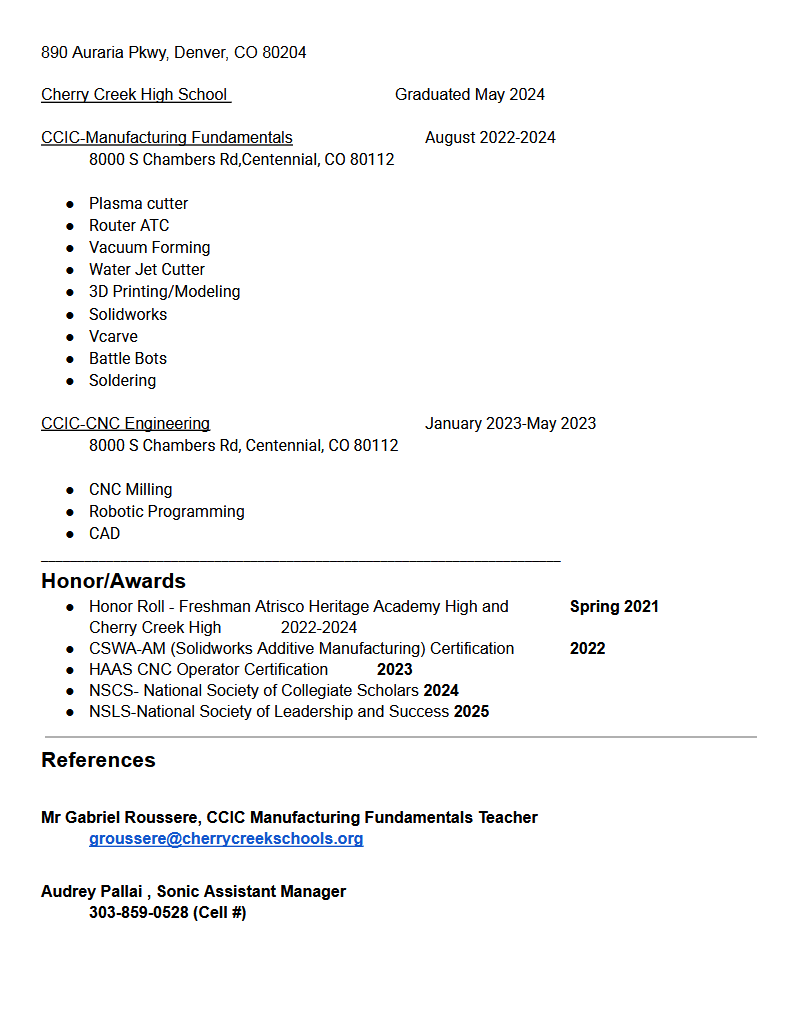
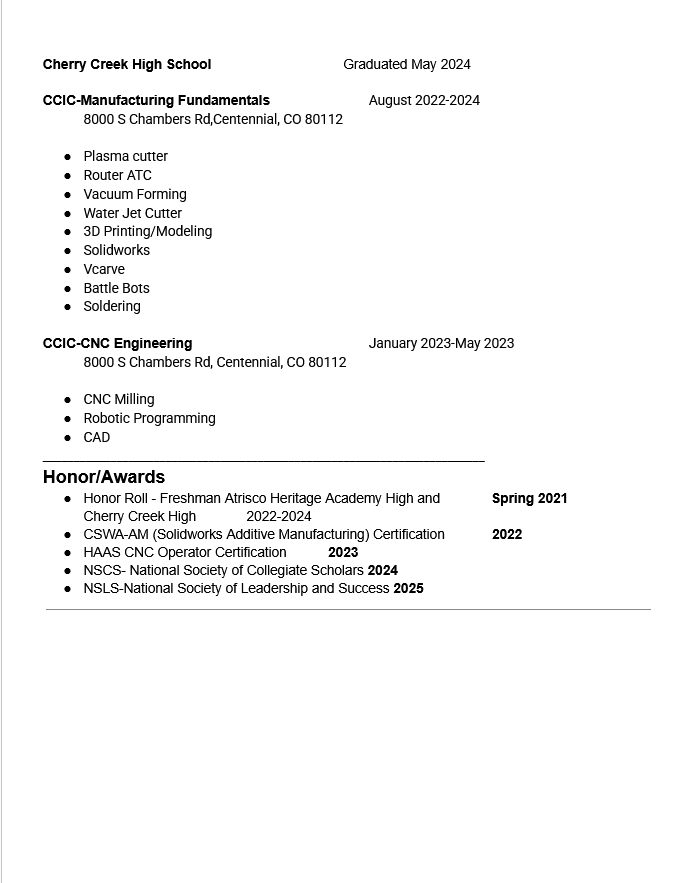
making contact info beside resume

diff --git a/resume_dark.html b/resume_dark.html
@@ -2,8 +2,12 @@
 <!--added a dark mode -->
 <html lang="en" data-bs-theme="dark">
   <head>
-    <!--added my portriat pic-->
+    
+    <!-- adding contact info so, its besides the resume-->
     <style>
+        
+       .imageflex { display:flex;}
+       .imageflexcontent{ margin-right:50px; margin-top:-510px;}
       .my-pic {
         width: 80px;
         height: 80px;
@@ -32,23 +36,36 @@
     <div id="nav-placeholder"></div>
     <!-- placing resume in webpage -->
      <div class="container" style="margin: auto;">
-       <div class="card bg-secondary" style="margin: 1px 1px 1px 1px;">  
-<img
-        src="images/start_resume.png"
-        class="img margin: auto;"
-        alt="mini bike after"
-        width="800"
-        height="1000"
+      <div class="card bg-secondary" style="margin:center;">  
+        
+            <h1 style="text-align: left; text-black">Resume</h1>
+          
+
+         
+              <img
+                src="images/start_resume.png"
+                class="img margin: auto;"
+                alt="mini bike after"
+                width="800"
+                height="1000"
       />
-      <img
+       <div class="imageflex">            
+        <img
         src="images/end_resume.png"
         class="img margin: auto;"
         alt="mini bike after"
         width="800"
         height="1000"
-      /> 
+      />  <div class="imageflexcontent"> 
+        <div class="card-body" margin-top:-100px 100px 1px -1px;><p class="imageflexcontent">Contact Information:</p>
+            <div class="card bg-dark" style=" margin: -14px 49px 1px 1px ;"></div>
+            </div>
+    </div>
+    </div>
+      
       </div>
-      </div>
+        </div>
+            </div>
     <script>
       // Load only the #dark-site-nav element from nav_dark_mode.html
       $("#nav-placeholder").load("nav_dark_mode.html #dark-site-nav");
